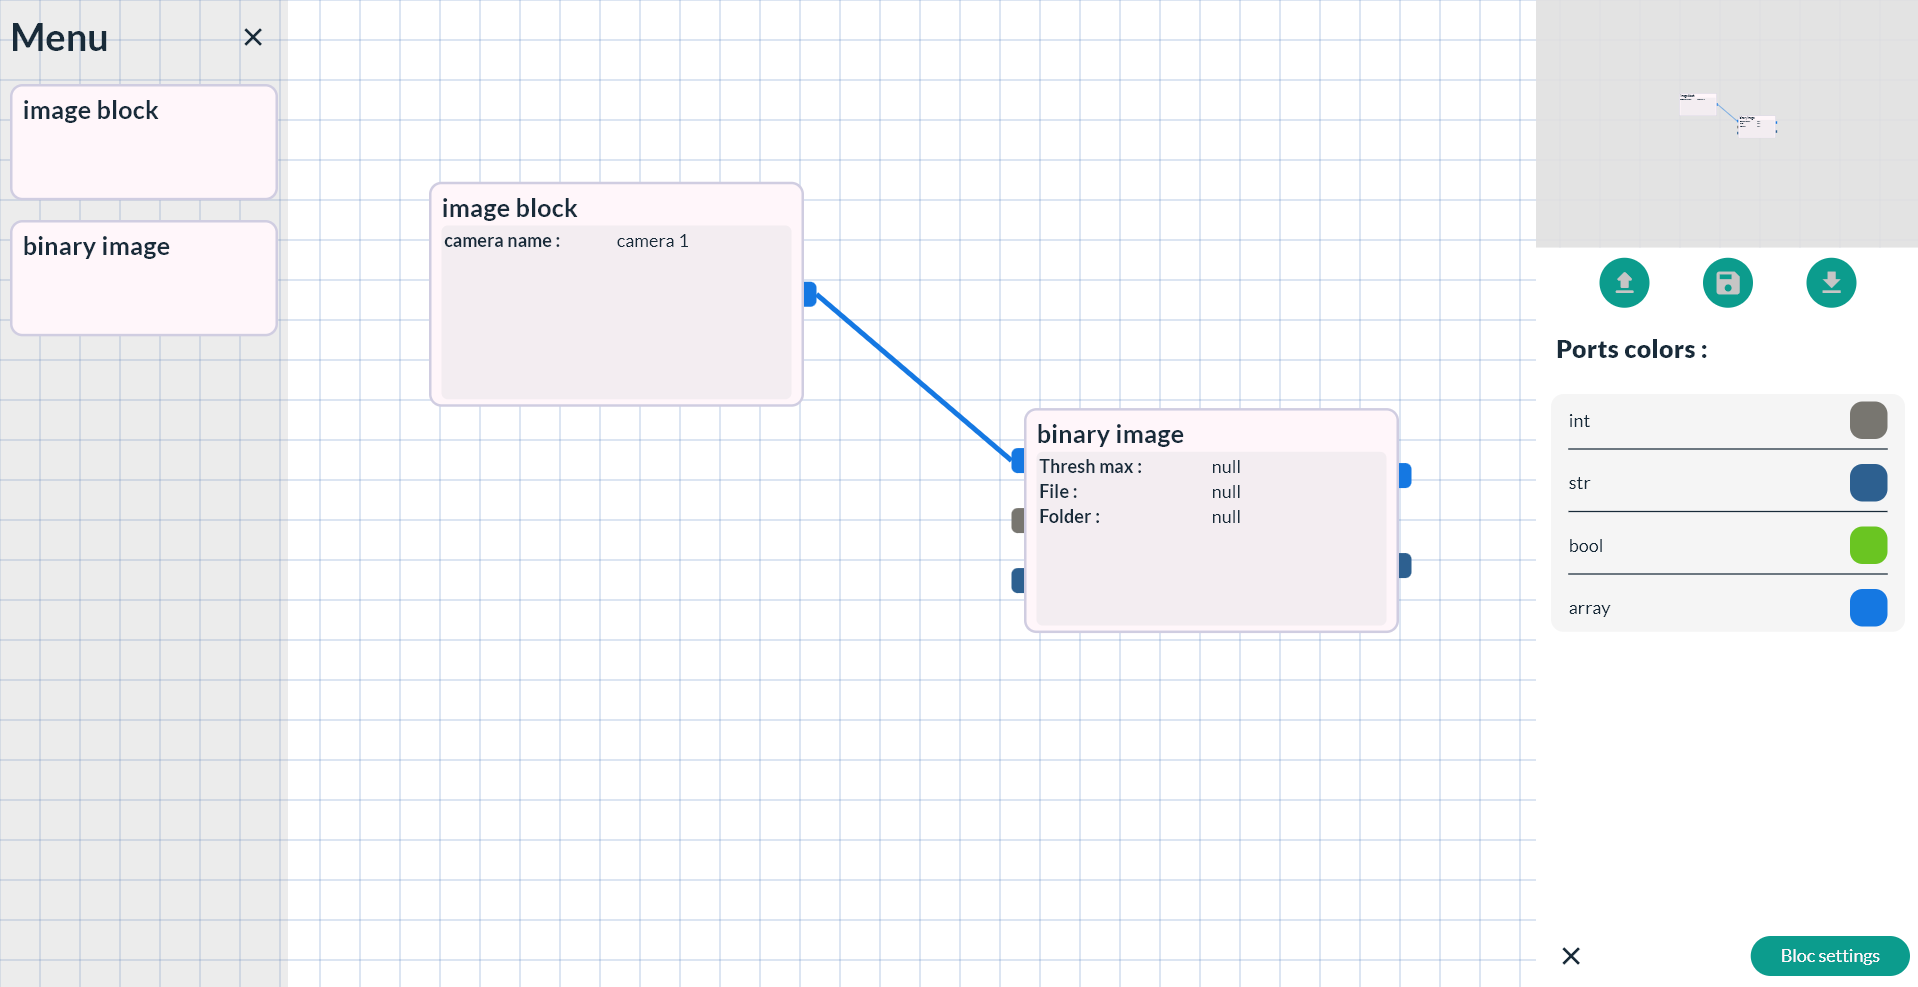
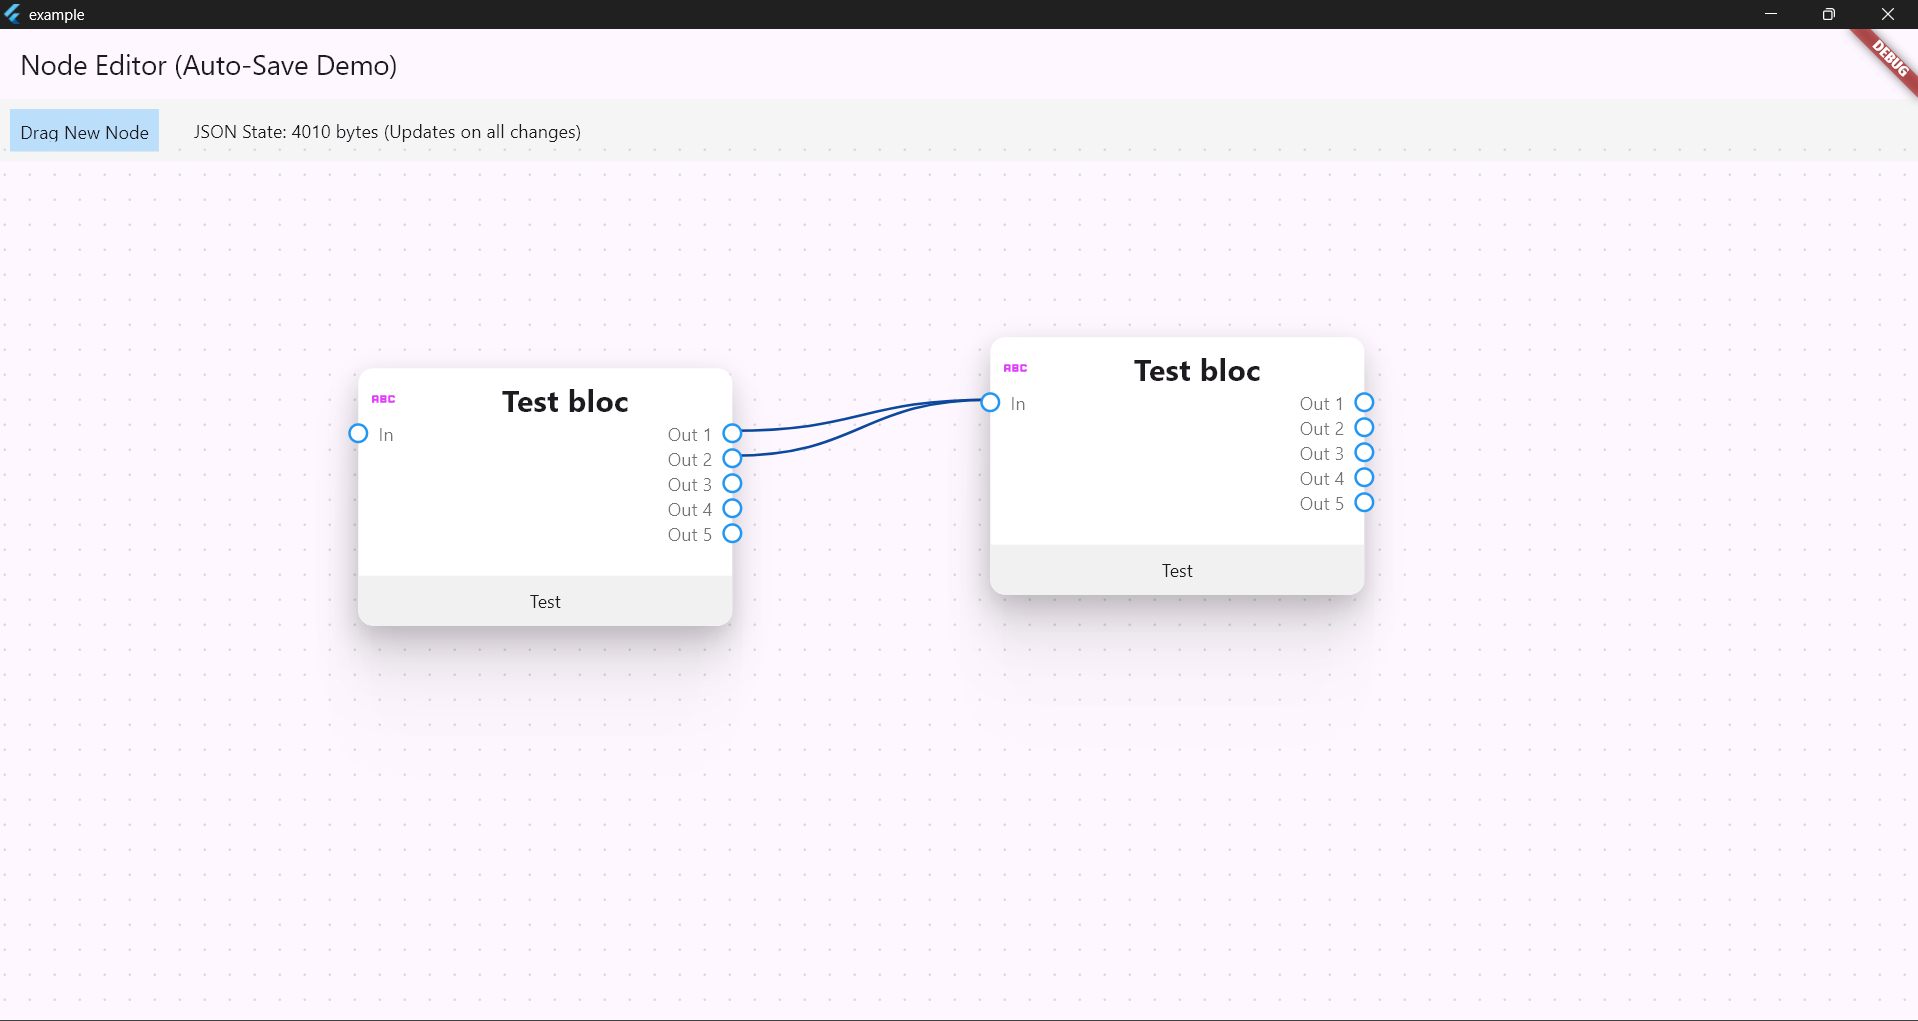
update readme for 2.0.0

diff --git a/README.md b/README.md
@@ -9,16 +9,47 @@ This project is curently made for a school project some functions can be partial
 
 If you had any advice or any trouble to notify, feel free to contact me !
 
-## Description
-
-The package provide a NodeProgramEditor widget witch is an editor dashboard who look like this :
-
 ![alt text](image.png)
 
+## Import 
+
+```
+ flutter pub add node_program_editor
+```
+
+## Usage 
+
+The package provide 3 widgets to use :
+
+### EditorCanvas
+
+EditorCanvas is the main widget of the package. It display the grid and the nodes. 
+The widget is a flutter DragTarget waiting for NodeData object.
+
+You also have two call back : 
+onSaveRequest
+onLoadRequest
+
+Who respectively convert your diagram to json and create a diagram from your json.
+
+### NodeData
+
+NodeData handle all the the settings for the node :
+- Input and output port data
+- Icon
+- Icon color
+- Ports color
+- Selected color
+- Type name
+- Name
+
+### Port
+
+Port handle information for link connection. You can set for port a maximum of connections
 
 ## RoadMap
 
-- Create blocks parameters object to fit more with parameters field
-- Create design object to offer more design option to the blocks
-- Improve link UX with drag link
-- Improve link style options
+- Add Port type
+- Add Port type colors
+- Handle update on nodes
+

diff --git a/CHANGELOG.md b/CHANGELOG.md
@@ -28,6 +28,8 @@ The 2.0.0 update is a major update that can be see as a new package.
 We rebuild all features of this package from scratch the goal is to have no external dependencies.
 All those changes bring some trouble and we where forced to remove some features
 
+2.0.0 is a migration an incomplete version but I really need the update for a personal project.
+
 #### Remove from 1.0.0
 
 - Pre-build node input
@@ -35,6 +37,8 @@ All those changes bring some trouble and we where forced to remove some features
 - Mini map
 - Click to link
 - To program
+- Resize node
+- Link type colors
   
 #### New features
 
